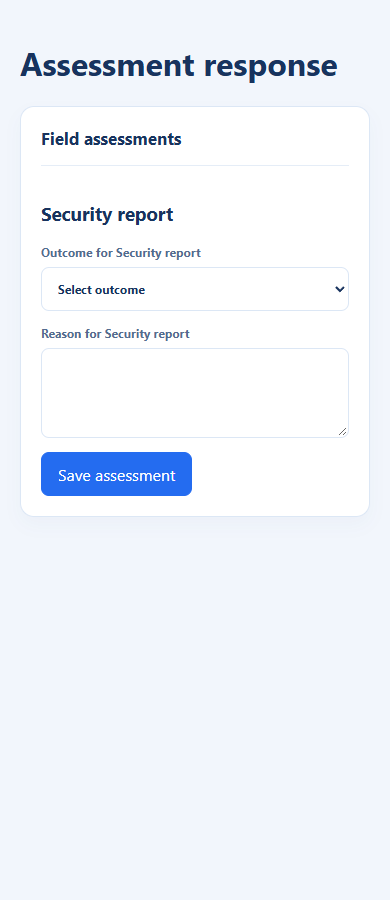
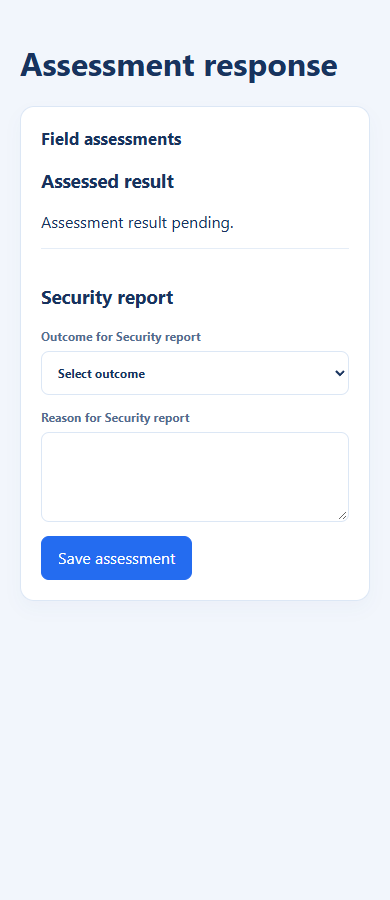
Distinguish submitted and assessed results

diff --git a/web/src/v210/ResponseAssessment.test.tsx b/web/src/v210/ResponseAssessment.test.tsx
@@ -8,7 +8,7 @@ const scope={tenant:"bank",entity:"entity",actor:"reviewer"};
 const assessment={response_id:"response",form_template_id:"form",form_template_version:1,version:0,current:true,state:"AWAITING_REVIEW",required_count:1,reviewed_count:0,reviewed_required_count:0,may_review:true,fields:[{field:{id:"q1",label:"Security report",type:"file",required:true,assessment:{mode:"MANUAL",required:true,weight:100,reviewer_role:"RISK",rubric:[{id:"poor",label:"Incomplete",points:80}]}},answer:{},may_review:true}]};
 beforeEach(()=>{sessionStorage.clear();vi.clearAllMocks();api.loadResponseAssessment.mockResolvedValue(assessment)});
 it("does not enable decisions without reviewer authority",async()=>{api.loadResponseAssessment.mockResolvedValue({...assessment,may_review:false});render(<ResponseAssessment id="response" scope={scope} current formID="form" formVersion={1} revision={2}/>);expect(await screen.findByText("Security report")).toBeTruthy();expect(screen.queryByRole("button",{name:"Save assessment"})).toBeNull()});
-it("retains a keyed decision after an uncertain save and retries explicitly",async()=>{api.recordResponseAssessment.mockRejectedValueOnce(new Error("offline"));api.recordResponseAssessment.mockResolvedValueOnce({...assessment,version:1,fields:[{...assessment.fields[0],decision:{id:"decision",field_id:"q1",outcome_id:"poor",rationale:"Missing systems",reviewer_id:"reviewer",response_id:"response",response_revision:2,form_template_id:"form",form_template_version:1}}]});render(<ResponseAssessment id="response" scope={scope} current formID="form" formVersion={1} revision={2}/>);fireEvent.change(await screen.findByLabelText("Outcome for Security report"),{target:{value:"poor"}});fireEvent.change(screen.getByLabelText("Reason for Security report"),{target:{value:"Missing systems"}});fireEvent.click(screen.getByRole("button",{name:"Save assessment"}));expect(await screen.findByText(/Retrying will submit the same assessment/)).toBeTruthy();expect(JSON.stringify(sessionStorage)).not.toContain("Missing systems");fireEvent.click(screen.getByRole("button",{name:"Retry assessment"}));await waitFor(()=>expect(api.recordResponseAssessment).toHaveBeenCalledTimes(2));expect(api.recordResponseAssessment.mock.calls[0]![2]).toBe(api.recordResponseAssessment.mock.calls[1]![2]);expect(await screen.findByText("Assessment saved.")).toBeTruthy()});
+it("retains a keyed decision after an uncertain save and retries explicitly",async()=>{api.recordResponseAssessment.mockRejectedValueOnce(new Error("offline"));api.recordResponseAssessment.mockResolvedValueOnce({...assessment,version:1,state:"ASSESSED",reviewed_count:1,reviewed_required_count:1,assessed_score:{mode:"RISK",state:"FINAL",final:true,raw_score:80,calculated_at:"2026-11-20T10:30:00Z"},fields:[{...assessment.fields[0],decision:{id:"decision",field_id:"q1",outcome_id:"poor",rationale:"Missing systems",reviewer_id:"reviewer",response_id:"response",response_revision:2,form_template_id:"form",form_template_version:1}}]});render(<ResponseAssessment id="response" scope={scope} current formID="form" formVersion={1} revision={2}/>);fireEvent.change(await screen.findByLabelText("Outcome for Security report"),{target:{value:"poor"}});fireEvent.change(screen.getByLabelText("Reason for Security report"),{target:{value:"Missing systems"}});fireEvent.click(screen.getByRole("button",{name:"Save assessment"}));expect(await screen.findByText(/Retrying will submit the same assessment/)).toBeTruthy();expect(screen.queryByText("Assessment result pending.")).toBeNull();expect(JSON.stringify(sessionStorage)).not.toContain("Missing systems");fireEvent.click(screen.getByRole("button",{name:"Retry assessment"}));await waitFor(()=>expect(api.recordResponseAssessment).toHaveBeenCalledTimes(2));expect(api.recordResponseAssessment.mock.calls[0]![2]).toBe(api.recordResponseAssessment.mock.calls[1]![2]);expect(await screen.findByText("Assessment saved.")).toBeTruthy();expect(screen.getByText("Assessed risk score: 80 / 100 · Final")).toBeTruthy()});
 it("clears a definite validation failure so the assessment can be corrected",async()=>{api.recordResponseAssessment.mockRejectedValue(new ApiError(422,"invalid"));render(<ResponseAssessment id="response" scope={scope} current formID="form" formVersion={1} revision={2}/>);fireEvent.change(await screen.findByLabelText("Outcome for Security report"),{target:{value:"poor"}});fireEvent.change(screen.getByLabelText("Reason for Security report"),{target:{value:"Incomplete"}});fireEvent.click(screen.getByRole("button",{name:"Save assessment"}));expect(await screen.findByText("Assessment not saved. Check the outcome and reason.")).toBeTruthy();expect(screen.getByRole("button",{name:"Save assessment"})).toBeTruthy()});
 
 
@@ -25,3 +25,9 @@ it("does not accept a receipt for another response revision",async()=>{api.recor
 it("retains the original attempt after a reloaded retry is rejected",async()=>{api.recordResponseAssessment.mockRejectedValueOnce(new Error("offline")).mockRejectedValueOnce(new ApiError(422,"invalid"));const view=render(<ResponseAssessment id="response" scope={scope} current formID="form" formVersion={1} revision={2}/>);fireEvent.change(await screen.findByLabelText("Outcome for Security report"),{target:{value:"poor"}});fireEvent.change(screen.getByLabelText("Reason for Security report"),{target:{value:"Missing systems"}});fireEvent.click(screen.getByRole("button",{name:"Save assessment"}));await screen.findByText(/Retrying will submit/);const before=JSON.stringify(sessionStorage);view.unmount();render(<ResponseAssessment id="response" scope={scope} current formID="form" formVersion={1} revision={2}/>);fireEvent.change(await screen.findByLabelText("Original reason for Security report"),{target:{value:"Missing systems"}});fireEvent.click(screen.getByRole("button",{name:"Retry assessment"}));await waitFor(()=>expect(api.recordResponseAssessment).toHaveBeenCalledTimes(2));expect(await screen.findByText(/Retrying will submit/)).toBeTruthy();expect(JSON.stringify(sessionStorage)).toBe(before);expect(screen.queryByRole("button",{name:"Save assessment"})).toBeNull()});
 it("explains when a reason is too long",async()=>{render(<ResponseAssessment id="response" scope={scope} current formID="form" formVersion={1} revision={2}/>);await screen.findByLabelText("Outcome for Security report");fireEvent.change(screen.getByLabelText("Reason for Security report"),{target:{value:"a".repeat(4001)}});expect(screen.getByText("Reason is too long. Shorten it.")).toBeTruthy();expect(screen.getByRole("button",{name:"Save assessment"})).toHaveProperty("disabled",true)});
 it("fails closed when an assessment field is malformed",async()=>{api.loadResponseAssessment.mockResolvedValue({...assessment,fields:[{field:null,may_review:true}]});render(<ResponseAssessment id="response" scope={scope} current formID="form" formVersion={1} revision={2}/>);expect(await screen.findByText("Assessments unavailable. Reload the response.")).toBeTruthy();expect(api.recordResponseAssessment).not.toHaveBeenCalled()});
+it("shows the recorded assessed result and its calculation time",async()=>{api.loadResponseAssessment.mockResolvedValue({...assessment,version:1,state:"ASSESSED",reviewed_count:1,reviewed_required_count:1,assessed_score:{mode:"RISK",state:"FINAL",final:true,raw_score:80,calculated_at:"2026-11-20T10:30:00Z"}});render(<ResponseAssessment id="response" scope={scope} current formID="form" formVersion={1} revision={2}/>);expect(await screen.findByText("Assessed risk score: 80 / 100 · Final")).toBeTruthy();expect(screen.getByText(/20 Nov 2026.*10:30:00 UTC/)).toBeTruthy()});
+it("does not present inconsistent or undated assessed scores as current",async()=>{api.loadResponseAssessment.mockResolvedValue({...assessment,version:1,state:"ASSESSED",reviewed_count:1,reviewed_required_count:1,assessed_score:{mode:"RISK",state:"FINAL",final:false,raw_score:80}});render(<ResponseAssessment id="response" scope={scope} current formID="form" formVersion={1} revision={2}/>);expect(await screen.findByText("Assessed score unavailable.")).toBeTruthy();expect(screen.queryByText(/80 \/ 100/)).toBeNull()});
+
+it("labels results on an earlier response and rejects invalid calculation times",async()=>{api.loadResponseAssessment.mockResolvedValueOnce({...assessment,version:1,current:false,state:"ASSESSED",reviewed_count:1,reviewed_required_count:1,assessed_score:{mode:"RISK",state:"FINAL",final:true,raw_score:80,calculated_at:"2026-11-20T10:30:00Z"}}).mockResolvedValueOnce({...assessment,version:1,state:"ASSESSED",reviewed_count:1,reviewed_required_count:1,assessed_score:{mode:"RISK",state:"FINAL",final:true,raw_score:80,calculated_at:"2026-02-30T10:30:00Z"}});const view=render(<ResponseAssessment id="response" scope={scope} current={false} formID="form" formVersion={1} revision={2}/>);expect(await screen.findByText(/Earlier response/)).toBeTruthy();view.unmount();render(<ResponseAssessment id="response" scope={scope} current formID="form" formVersion={1} revision={2}/>);expect(await screen.findByText("Assessed score unavailable.")).toBeTruthy();expect(screen.queryByText(/80 \/ 100/)).toBeNull()});
+
+

diff --git a/web/src/v210/ResponseAssessment.tsx b/web/src/v210/ResponseAssessment.tsx
@@ -1,6 +1,7 @@
 import { useEffect, useRef, useState, type FormEvent } from "react";
 import { loadResponseAssessment, recordResponseAssessment, type ResponseAssessmentDetail } from "../formAssessmentApi";
 import { apiErrorKind } from "../http";
+import { timestampLabel } from "./recordedTime";
 
 type Scope = {tenant:string; entity:string; actor:string};
 type Attempt = {key:string; version:number; field:string; outcome:string; reason?:string};
@@ -14,6 +15,15 @@ function validFields(value: ResponseAssessmentDetail): boolean {
   if (a && (!["NONE","MANUAL","AUTOMATIC","AUTOMATIC_REVIEW"].includes(a.mode) || (a.rubric!==undefined && (!Array.isArray(a.rubric) || a.rubric.some(r=>!r || typeof r.id!=="string" || !r.id || typeof r.label!=="string") || new Set(a.rubric.map(r=>r.id)).size!==a.rubric.length)))) return false;
   const d=item.decision; return !d || (typeof d.outcome_id==="string" && typeof d.rationale==="string" && (d.reviewer_display_name===undefined || typeof d.reviewer_display_name==="string"));
  });
+}
+function assessedResult(value: ResponseAssessmentDetail): {label:string; asOf?:string} | undefined {
+ if (value.state==="NOT_REQUIRED") return undefined;
+ if (value.version===0) return {label:"Assessment result pending."};
+ const score=value.assessed_score;
+ const counts=[value.required_count,value.reviewed_required_count,value.reviewed_count];
+ if (counts.some(n=>!Number.isSafeInteger(n) || n<0) || value.reviewed_required_count>value.required_count || value.reviewed_required_count>value.reviewed_count || !score || (score.mode!=="RISK" && score.mode!=="COMPLIANCE") || typeof score.raw_score!=="number" || !Number.isFinite(score.raw_score) || score.raw_score<0 || score.raw_score>100 || (score.state!=="FINAL" && score.state!=="PROVISIONAL") || (score.state==="FINAL" && (score.final!==true || value.state!=="ASSESSED" || value.required_count!==value.reviewed_required_count || (value.required_count===0 && value.reviewed_count===0))) || (score.state==="PROVISIONAL" && (score.final!==false || (value.state!=="AWAITING_REVIEW" && value.state!=="IN_REVIEW"))) || !score.calculated_at) return {label:"Assessed score unavailable."};
+ const time=timestampLabel(score.calculated_at); if(time==="time unavailable") return {label:"Assessed score unavailable."};
+ return {label:`Assessed ${score.mode==="RISK" ? "risk" : "compliance"} score: ${score.raw_score} / 100 · ${score.state==="FINAL" ? "Final" : "Provisional"}`,asOf:time};
 }
 function readAttempt(key?:string): Attempt | null | undefined {
  if (!key) return undefined;
@@ -43,13 +53,14 @@ export function ResponseAssessment({id,scope,current,formID,formVersion,revision
  function save(event:FormEvent,field:string) {event.preventDefault();if(!storageKey || !data || pending!==undefined || !outcomes[field] || !reasons[field]?.trim())return;try{const attempt:Attempt={key:crypto.randomUUID(),version:data.version,field,outcome:outcomes[field],reason:reasons[field].trim()};sessionStorage.setItem(storageKey,JSON.stringify({key:attempt.key,version:attempt.version,field:attempt.field,outcome:attempt.outcome}));setPending(attempt);setSaved(false);void submit(attempt)}catch{setError("storage")}}
  if(state==="loading") return <section className="v-panel v-field-assessment"><h2>Field assessments</h2><p>Loading assessments…</p></section>;
  if(state==="error" || !data) return <section className="v-panel v-field-assessment"><h2>Field assessments</h2><p>Assessments unavailable. Reload the response.</p></section>;
- const pendingField=pending && data.fields.find(x=>x.field.id===pending.field); const canAct=Boolean(storageKey && scope && Number.isSafeInteger(revision) && revision>0 && current && data.current && data.may_review);
- return <section className="v-panel v-field-assessment"><h2>Field assessments</h2>{saved && <p role="status">Assessment saved.</p>}{data.fields.filter(x=>x.field.assessment?.mode==="MANUAL" || x.field.assessment?.mode==="AUTOMATIC_REVIEW").length===0 && <p>No fields require assessment.</p>}
+ const pendingField=pending && data.fields.find(x=>x.field.id===pending.field); const canAct=Boolean(storageKey && scope && Number.isSafeInteger(revision) && revision>0 && current && data.current && data.may_review); const result=assessedResult(data);
+ return <section className="v-panel v-field-assessment"><h2>Field assessments</h2>{saved && <p role="status">Assessment saved.</p>}{result && pending===undefined && <div><h3>Assessed result</h3><p>{result.label}</p>{result.asOf && <p>Calculated {result.asOf}{!data.current && " · Earlier response"}</p>}</div>}{data.fields.filter(x=>x.field.assessment?.mode==="MANUAL" || x.field.assessment?.mode==="AUTOMATIC_REVIEW").length===0 && <p>No fields require assessment.</p>}
  {data.fields.filter(x=>x.field.assessment?.mode==="MANUAL" || x.field.assessment?.mode==="AUTOMATIC_REVIEW").map(({field,decision,may_review})=><div className="v-assessment-field" key={field.id}><h3>{field.label}</h3>{decision && <p>{field.assessment?.rubric?.find(x=>x.id===decision.outcome_id)?.label ?? "Outcome unavailable"} · {decision.reviewer_display_name || "Reviewer name unavailable"}</p>}{decision?.rationale && <p>{decision.rationale}</p>}
  {canAct && may_review && !field.assessment?.rubric?.length && <p>Assessment outcomes unavailable.</p>}{canAct && may_review && Boolean(field.assessment?.rubric?.length) && pending===undefined && <form onSubmit={e=>save(e,field.id)}><label>Outcome for {field.label}<select required value={outcomes[field.id]??""} onChange={e=>setOutcomes({...outcomes,[field.id]:e.target.value})}><option value="">Select outcome</option>{field.assessment?.rubric?.map(r=><option key={r.id} value={r.id}>{r.label}</option>)}</select></label><label>Reason for {field.label}<textarea required value={reasons[field.id]??""} onChange={e=>setReasons({...reasons,[field.id]:e.target.value})}/></label>{new TextEncoder().encode(reasons[field.id]??"").length>4000 && <p role="alert">Reason is too long. Shorten it.</p>}<button className="v-primary" disabled={busy || new TextEncoder().encode(reasons[field.id]??"").length>4000}>Save assessment</button></form>}</div>)}
  {!canAct && <p>Assessment decisions unavailable.</p>}{error==="validation" && <p role="alert">Assessment not saved. Check the outcome and reason.</p>}{error==="storage" && <p role="alert">Assessment not saved. Browser storage is unavailable.</p>}{pending===null && <p role="alert">Assessment status unavailable. Check assessment history before saving.</p>}
  {pending && <div>{busy ? <p role="status">Saving assessment…</p> : <p role="alert">Assessment status unknown. Retrying will submit the same assessment.</p>}{pendingField ? <><p>{pendingField.field.label} · {pendingField.field.assessment?.rubric?.find(r=>r.id===pending.outcome)?.label ?? "Outcome unavailable"}</p>{pending.reason ? <label>Reason for {pendingField.field.label}<textarea readOnly value={pending.reason}/></label> : <label>Original reason for {pendingField.field.label}<textarea value={reasons[pending.field]??""} onChange={e=>setReasons({...reasons,[pending.field]:e.target.value})}/></label>}{new TextEncoder().encode(pending.reason ?? reasons[pending.field]??"").length>4000 && <p role="alert">Reason is too long. Shorten it.</p>}<button className="v-primary" disabled={busy || !canAct || !pendingField.may_review || error==="forbidden" || !(pending.reason ?? reasons[pending.field]??"").trim() || new TextEncoder().encode(pending.reason ?? reasons[pending.field]??"").length>4000} onClick={()=>void submit(pending,true)}>Retry assessment</button></> : <p>Assessment unavailable. Reload the response.</p>}{error==="forbidden" && <p role="alert">Assessment unavailable. Reload to check access.</p>}</div>}</section>;
 }
+
 
 
 

diff --git a/web/src/v210/Responses.tsx b/web/src/v210/Responses.tsx
@@ -6,6 +6,7 @@ import { documentContentURL, loadDocuments } from "../submittedDocumentApi";
 import { apiErrorKind } from "../http";
 import { documentReturnDestination, scopedDocumentsHref } from "./documentReturn";
 import { ResponseAssessment } from "./ResponseAssessment";
+import { timestampLabel } from "./recordedTime";
 import "./responses.css";
 
 type ReviewScope = { tenant: string; entity: string; actor: string };
@@ -158,7 +159,7 @@ function ResponseDetail({ id, reviewScope }: { id: string; reviewScope?: ReviewS
     {documentHref && <p><a href={documentHref}>View response documents</a></p>}
     {revision.supersedes_revision_id && earlier.length === 0 && <p>{previousHref ? <a href={previousHref}>Previous response</a> : "Earlier response unavailable."}</p>}
     {previousHref && Number.isSafeInteger(revision.revision) && revision.revision > 1 && <section className="v-panel v-response-versions"><h2>Earlier responses</h2>{earlier.length > 0 && <ul>{earlier.map((item) => <li key={item.revision.id}><a href={previousResponseHref(item.revision.id,response.distribution_id)}>Response version {item.revision.revision}</a><span>{timestampLabel(item.response.completed_at)}</span></li>)}</ul>}{earlierError && <p role="alert">Earlier responses unavailable.</p>}{(earlier.length === 0 || earlier.at(-1)?.revision.supersedes_revision_id) && <button type="button" disabled={earlierBusy} onClick={() => void loadEarlier()}>{earlierBusy ? "Loading…" : "Load earlier responses"}</button>}</section>}
-    <section className="v-panel v-response-result"><h2>Form result</h2><p>{result.label}</p>{result.concern && <span className={`v-status${result.concern.high ? " v-status--high" : ""}`}>{result.concern.label}</span>}</section>
+    <section className="v-panel v-response-result"><h2>Submitted result</h2><p>{result.label}</p>{result.concern && <span className={`v-status${result.concern.high ? " v-status--high" : ""}`}>{result.concern.label}</span>}</section>
     <section className="v-panel v-response-answers"><h2>Answers</h2>{!answers ? <p role="alert">Answers unavailable. Reload before reviewing.</p> : answers.length === 0 ? <p>No answers recorded.</p> : <dl>{answers.map(({ field_id, label, type, value }) => <div key={field_id}><dt>{label}</dt><dd>{answerLabel(type, value)}{value?.document && <span className="v-answer-document">{value.document.document_type && <span>Type: {value.document.document_type}</span>}{value.document.reference && <span>Reference: {value.document.reference}</span>}{value.document.issued_by && <span>Issued by: {value.document.issued_by}</span>}{value.document.issued_on && <span>Issued: {dateLabel(value.document.issued_on)}</span>}{value.document.expires_on && <span>Expires: {dateLabel(value.document.expires_on)}</span>}</span>}</dd></div>)}</dl>}</section>
     <ResponseAssessment id={id} scope={reviewScope} current={Boolean(isCurrent && answers && documents && !documentsNext)} formID={response.form_template_id} formVersion={response.form_template_version} revision={response.revision}/>
     <section className="v-panel v-response-documents"><h2>Documents</h2>{!documents ? <p role="alert">Documents unavailable. Reload before reviewing.</p> : documents.length === 0 && !documentsNext ? <p>No documents submitted.</p> : <ul>{documents.map((document) => <li key={document.id}><span>{document.file_name}</span>{document.artifact_status === "AVAILABLE" || (document.artifact_status === "STORED_UNSCANNED" && document.demo_unscanned_allowed) ? <a href={documentContentURL(document, true)}>Download</a> : <small>File unavailable</small>}</li>)}</ul>}{documentsNext && <><p>More documents must be loaded before review.</p>{documentsError && <p role="alert">Additional documents unavailable.</p>}<button disabled={documentsBusy} onClick={() => void moreDocuments()}>{documentsBusy ? "Loading…" : "Load more documents"}</button></>}</section>
@@ -263,16 +264,7 @@ function validHistoryIdentifier(value: unknown): value is string {
  try { encodeURIComponent(value); return true; } catch { return false; }
 }
 function accessDenied(error: unknown) { return ["unauthorized", "forbidden"].includes(apiErrorKind(error)); }
-function timestampLabel(value: string) {
-  const match = /^(\d{4})-(\d{2})-(\d{2})T(\d{2}):(\d{2}):(\d{2})(?:\.\d+)?(?:Z|[+-]\d{2}:\d{2})$/.exec(value);
-  if (!match) return "time unavailable";
-  const year = Number(match[1]), month = Number(match[2]), day = Number(match[3]);
-  const leap = year % 4 === 0 && (year % 100 !== 0 || year % 400 === 0);
-  const days = [31, leap ? 29 : 28, 31, 30, 31, 30, 31, 31, 30, 31, 30, 31];
-  if (month < 1 || month > 12 || day < 1 || day > days[month - 1]! || Number(match[4]) > 23 || Number(match[5]) > 59 || Number(match[6]) > 59) return "time unavailable";
-  const date = new Date(value);
-  return Number.isNaN(date.getTime()) ? "time unavailable" : `${new Intl.DateTimeFormat("en-GB", { day: "numeric", month: "short", year: "numeric", hour: "2-digit", minute: "2-digit", second: "2-digit", hourCycle: "h23", timeZone: "UTC" }).format(date)} UTC`;
-}
+
 function dateLabel(value: string) { const date = new Date(value); return Number.isNaN(date.getTime()) ? "date unavailable" : new Intl.DateTimeFormat(undefined, { day: "numeric", month: "short", year: "numeric", timeZone: "UTC" }).format(date); }
 function answerLabel(type?: string, answer?: CaptureAnswerValue) {
   if (!answer) return "No answer";
@@ -298,3 +290,4 @@ function answerLabel(type?: string, answer?: CaptureAnswerValue) {
   if (fieldType === "photo") return "Photo submitted";
   return `${count} ${count === 1 ? "document" : "documents"} submitted`;
 }
+

diff --git a/web/src/v210/Responses.test.tsx b/web/src/v210/Responses.test.tsx
@@ -559,7 +559,7 @@ it("removes malformed filter parameters when clearing them",async()=>{
 it("shows the verified recorded form result on the exact response",async()=>{
  const score={state:"FINAL",final:true,mode:"COMPLIANCE",direction:"LOW_IS_POOR",raw_score:42,band:"HIGH",coverage:0.9,profile_version:"policy-1"};
  responses.loadCompletedResponse.mockResolvedValue({response:{...summary,score},revision:{id:"revision-1",revision:2,current:true,score},answers:[],documents:[]}); render(<Responses id="revision-1" reviewScope={{tenant:"tenant",entity:"entity",actor:"reviewer"}}/>);
- expect(await screen.findByText("Form compliance score: 42 / 100 · Final")).toBeTruthy(); expect(screen.getByText("High concern")).toBeTruthy();
+ expect(await screen.findByText("Form compliance score: 42 / 100 · Final")).toBeTruthy(); expect(screen.getByRole("heading",{name:"Submitted result"})).toBeTruthy(); expect(screen.getByText("High concern")).toBeTruthy();
 });
 it("does not present conflicting response and revision scores",async()=>{
  const score={state:"FINAL",final:true,mode:"COMPLIANCE",raw_score:42,band:"HIGH"}; responses.loadCompletedResponse.mockResolvedValue({response:{...summary,score},revision:{id:"revision-1",revision:2,current:true,score:{...score,raw_score:90}},answers:[],documents:[]}); render(<Responses id="revision-1" reviewScope={{tenant:"tenant",entity:"entity",actor:"reviewer"}}/>); expect(await screen.findByText("Score unavailable")).toBeTruthy(); expect(screen.queryByText(/42 \/ 100/)).toBeNull(); expect(screen.queryByText(/90 \/ 100/)).toBeNull();

diff --git a/web/src/v210/recordedTime.ts b/web/src/v210/recordedTime.ts
@@ -1,0 +1,10 @@
+export function timestampLabel(value: string) {
+  const match = /^(\d{4})-(\d{2})-(\d{2})T(\d{2}):(\d{2}):(\d{2})(?:\.\d+)?(?:Z|[+-]\d{2}:\d{2})$/.exec(value);
+  if (!match) return "time unavailable";
+  const year = Number(match[1]), month = Number(match[2]), day = Number(match[3]);
+  const leap = year % 4 === 0 && (year % 100 !== 0 || year % 400 === 0);
+  const days = [31, leap ? 29 : 28, 31, 30, 31, 30, 31, 31, 30, 31, 30, 31];
+  if (month < 1 || month > 12 || day < 1 || day > days[month - 1]! || Number(match[4]) > 23 || Number(match[5]) > 59 || Number(match[6]) > 59) return "time unavailable";
+  const date = new Date(value);
+  return Number.isNaN(date.getTime()) ? "time unavailable" : `${new Intl.DateTimeFormat("en-GB", { day: "numeric", month: "short", year: "numeric", hour: "2-digit", minute: "2-digit", second: "2-digit", hourCycle: "h23", timeZone: "UTC" }).format(date)} UTC`;
+}

diff --git a/docs/design/2026-11-22-field-assessment-ui.md b/docs/design/2026-11-22-field-assessment-ui.md
@@ -3,3 +3,5 @@
 The response detail shows recorded field assessments and, only when the scoped server permits review, accepts an outcome and reason. The request key and non-sensitive selection survive a browser reload; the reviewer must re-enter the reason. An uncertain outcome retains its key, including after a retry validation error. Decision receipts must match the response, revision, form, field, reviewer and submitted decision.
 
 The server decision gate remains closed. The component evidence in `docs/evidence/2026-11-22-field-assessment-ui/` uses synthetic data at 1440, 768 and 390 pixels; it does not establish full-shell, production authorization or end-to-end command acceptance. Source-to-result and independent authority parity remain release work.
+
+Submitted and assessed scores are shown separately from their recorded sources. An uncertain assessment hides the potentially stale assessed result until the outcome is resolved.
